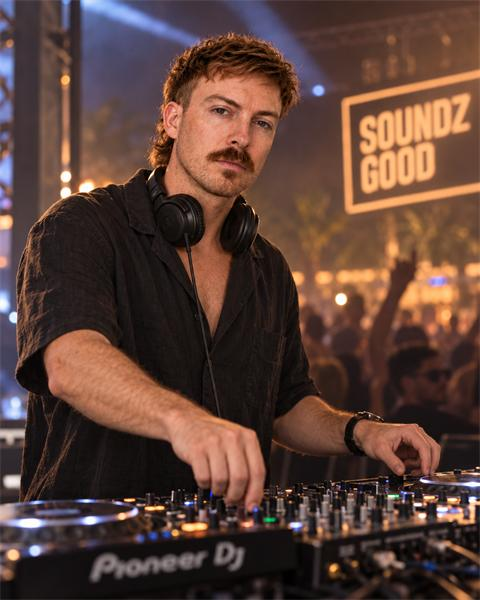
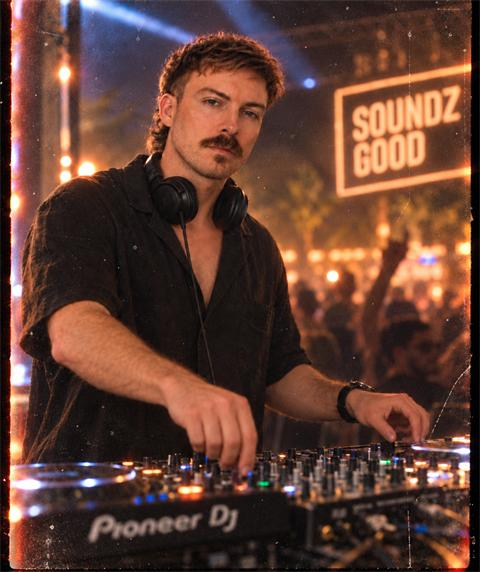
The photograph is the card, and six artists have one
THE CARD

The picture used to sit in a strip across the top with the name and the
button in a solid panel underneath. Now it fills the whole card and the
words sit over it, on a gradient that fades up out of the picture. That is
what makes the card about the artist rather than about the box the artist
is in.

The photograph is also the hit area: clicking anywhere on it opens the
artist panel, as a real <button> with a label and a focus ring. The
enquiry link sits above it in the stacking order so it stays clickable -
checked with elementsFromPoint, which reads link, body, picture, card.

SIX PHOTOGRAPHS

DJ Maxx, DJ Karma, Nina Sinclair, DJ Charley Templar, Alex Emrik and DJ
PowerBoi. Roughly 2MB each on the way in, 29-45KB on the way out - 98% off,
and none of it fetched until somebody scrolls to it.

I nearly shipped Nina's photograph on DJ PowerBoi's card. Two arrived
close together and I took the newest file for the name most recently
mentioned rather than checking which picture was which. Opening both
sorted it. Worth naming, because the failure is silent: a wrong face on a
real person's card looks exactly like a right one.

Nina Sinclare is now Nina Sinclair. The original list said Sinclare; it
has been written Sinclair twice since, and Sinclair is the spelling that
matches the name.

diff --git a/entertainment.css b/entertainment.css
@@ -629,10 +629,32 @@
     gap:18px;
 }
 
+/*  THE PHOTOGRAPH IS THE CARD
+
+    It used to sit in a strip across the top with the name and the button in
+    a solid panel underneath. Now it fills the whole thing and the words sit
+    over it, which is what makes the card about the artist rather than about
+    the box the artist is in.
+
+    THE CROP
+    These are portraits and this is a tall box, but still a crop - centred,
+    DJ Maxx's card showed his chest and the decks with his face cut off
+    above the frame. 18% from the top is where a head is in a portrait. Set
+    once here, because it is true of every photograph of a person standing
+    up.                                                                   */
 #sg-ent-page .ent-card{
+    position:relative;
     display:flex;
     flex-direction:column;
-    background:var(--ent-card);
+    justify-content:flex-end;
+    min-height:310px;
+
+    background:
+        var(--ent-img, none),
+        linear-gradient(140deg, #2b1a3d, #0d0d0d 72%);
+    background-size:cover;
+    background-position:center 18%;
+
     border:1px solid var(--ent-line);
     border-radius:14px;
     overflow:hidden;
@@ -644,37 +666,28 @@
     transform:translateY(-3px);
 }
 
-/*  THE CROP
+/*  Covers the whole card, under the words, so clicking anywhere on the
+    photograph opens the artist panel. It carries no picture of its own any
+    more - it is a hit area, and the holder of the stand-in glyph.
 
-    Artist photographs are portraits, and this box is landscape - so most of
-    the picture is cropped away. Centred, it kept the middle: DJ Maxx's card
-    showed his chest and the decks, with his face cut off above the frame.
-
-    18% from the top instead, which is where a head is in a portrait. Set
-    once here rather than per artist, because it is true of every photograph
-    of a person standing up.                                              */
+    The padding pushes the glyph up out of the area the words cover, so it
+    is centred in the part of the card you can actually see.             */
 #sg-ent-page .ent-card-media{
-    position:relative;
-    height:170px;
+    position:absolute;
+    inset:0;
+    z-index:1;
+
     display:grid;
     place-items:center;
+    padding-bottom:96px;
 
-    /*  It is a <button> now - the picture opens the artist panel, since the
-        action underneath it goes off to the contact form instead. Stripped
-        back to looking like the picture it was.                         */
     width:100%;
-    padding:0;
+    background:none;
     border:0;
     cursor:pointer;
     font:inherit;
     color:inherit;
     text-align:inherit;
-
-    background:
-        var(--ent-img, none),
-        linear-gradient(140deg, #2b1a3d, #0d0d0d 72%);
-    background-size:cover;
-    background-position:center 18%;
 }
 
 /*  The glyph is the stand-in for a photo that is not there yet. Once one
@@ -697,10 +710,8 @@
     blurs what shows through where the browser supports it; where it does
     not, the wash on its own is enough.                                   */
 #sg-ent-page .ent-badge{
-    position:absolute;
-    left:10px;
-    bottom:10px;
-
+    align-self:flex-start;
+    margin-bottom:10px;
     padding:5px 10px;
     border-radius:6px;
     background:rgba(10,10,10,.45);
@@ -716,11 +727,26 @@
     text-transform:uppercase;
 }
 
+/*  Over the photograph rather than under it. The gradient fades up out of
+    the picture so the words have something solid behind them without the
+    card turning back into a panel with a lid on it.
+
+    Above the hit area in the stacking order, so the enquiry link is
+    clickable - the picture button covers the whole card underneath.     */
 #sg-ent-page .ent-card-body{
+    position:relative;
+    z-index:2;
+
     display:flex;
     flex-direction:column;
-    flex:1;
-    padding:16px;
+    padding:64px 16px 16px;
+
+    background:linear-gradient(
+        to top,
+        rgba(8,8,8,.95) 28%,
+        rgba(8,8,8,.78) 58%,
+        rgba(8,8,8,0) 100%
+    );
 }
 
 #sg-ent-page .ent-card-body h3{
@@ -836,7 +862,8 @@
         gap:12px;
     }
 
-    #sg-ent-page .ent-card-media{ height:130px; }
+    #sg-ent-page .ent-card{ min-height:250px; }
+    #sg-ent-page .ent-card-media{ padding-bottom:80px; }
 
     #sg-ent-page .ent-select{ flex:1 1 140px; }
 

diff --git a/js/entertainment.js b/js/entertainment.js
@@ -65,12 +65,17 @@
         { slug:'dj-maxx',            name:'DJ Maxx',            act:'dj',   genres:[], events:[],
           photo:'images/talent/dj-maxx.jpg' },
         { slug:'dj-tao',             name:'DJ Tao',             act:'dj',   genres:[], events:[] },
-        { slug:'dj-karma',           name:'DJ Karma',           act:'dj',   genres:[], events:[] },
-        { slug:'nina-sinclare',      name:'Nina Sinclare',      act:'dj',   genres:[], events:[] },
-        { slug:'dj-charley-templar', name:'DJ Charley Templar', act:'dj',   genres:[], events:[] },
+        { slug:'dj-karma',           name:'DJ Karma',           act:'dj',   genres:[], events:[],
+          photo:'images/talent/dj-karma.jpg' },
+        { slug:'nina-sinclair',      name:'Nina Sinclair',      act:'dj',   genres:[], events:[],
+          photo:'images/talent/nina-sinclair.jpg' },
+        { slug:'dj-charley-templar', name:'DJ Charley Templar', act:'dj',   genres:[], events:[],
+          photo:'images/talent/dj-charley-templar.jpg' },
         { slug:'kriss-kross',        name:'Kriss Kross',        act:'dj',   genres:[], events:[] },
-        { slug:'alex-emrik',         name:'Alex Emrik',         act:'dj',   genres:[], events:[] },
-        { slug:'dj-powerboi',        name:'DJ PowerBoi',        act:'dj',   genres:[], events:[] },
+        { slug:'alex-emrik',         name:'Alex Emrik',         act:'dj',   genres:[], events:[],
+          photo:'images/talent/alex-emrik.jpg' },
+        { slug:'dj-powerboi',        name:'DJ PowerBoi',        act:'dj',   genres:[], events:[],
+          photo:'images/talent/dj-powerboi.jpg' },
 
         /* ---- Solo artists ---- */
         { slug:'sam-mckann',         name:'Sam McKann',         act:'solo', genres:[], events:[] },
@@ -167,14 +172,21 @@
             : '';
 
         return '' +
-        '<article class="ent-card" data-act="' + esc(t.act) + '">' +
+        '<article class="ent-card" data-act="' + esc(t.act) + '"' + media + '>' +
+
+          /*  The picture fills the card and this sits over all of it, so
+              clicking anywhere on the photograph opens the artist panel.
+              It holds the glyph shown when there is no photograph.      */
           '<button type="button" class="ent-card-media" data-slug="' + esc(t.slug) + '"' +
-            media + ' aria-label="More about ' + esc(t.name) + '">' +
+            ' aria-label="More about ' + esc(t.name) + '">' +
             '<svg class="ent-card-glyph" viewBox="0 0 24 24" aria-hidden="true">' + glyph + '</svg>' +
-            '<span class="ent-badge">' + esc(actLabel) + '</span>' +
           '</button>' +
 
+          /*  The words sit on the photograph rather than in a solid strip
+              underneath it, over a gradient that fades up out of the
+              picture.                                                   */
           '<div class="ent-card-body">' +
+            '<span class="ent-badge">' + esc(actLabel) + '</span>' +
             '<h3>' + esc(t.name) + '</h3>' +
 
             /*  Both lines are left out entirely when there is nothing to put

diff --git a/vendor-signup.html b/vendor-signup.html
@@ -20,10 +20,10 @@
     <meta name="twitter:card" content="summary_large_image">
 
     <link rel="icon" href="images/logo.png">
-    <link rel="stylesheet" href="style.css?v=10">
-    <link rel="stylesheet" href="vendor-signup.css?v=10">
-    <script src="js/main.js?v=10" defer></script>
-    <script type="module" src="js/vendor-signup.js?v=10"></script>
+    <link rel="stylesheet" href="style.css?v=11">
+    <link rel="stylesheet" href="vendor-signup.css?v=11">
+    <script src="js/main.js?v=11" defer></script>
+    <script type="module" src="js/vendor-signup.js?v=11"></script>
 </head>
 
 <body class="vendor-signup">

diff --git a/events.html b/events.html
@@ -20,10 +20,10 @@
   <meta name="twitter:card" content="summary_large_image">
 
   <link rel="icon" href="images/logo.png">
-  <link rel="stylesheet" href="style.css?v=10">
-  <link rel="stylesheet" href="events.css?v=10">
-  <script src="js/main.js?v=10" defer></script>
-  <script src="js/events.js?v=10" defer></script>
+  <link rel="stylesheet" href="style.css?v=11">
+  <link rel="stylesheet" href="events.css?v=11">
+  <script src="js/main.js?v=11" defer></script>
+  <script src="js/events.js?v=11" defer></script>
 </head>
 
 <!-- the class is what events.css hangs the footer tweak off -->

diff --git a/entertainment.html b/entertainment.html
@@ -20,10 +20,10 @@
   <meta name="twitter:card" content="summary_large_image">
 
   <link rel="icon" href="images/logo.png">
-  <link rel="stylesheet" href="style.css?v=10">
-  <link rel="stylesheet" href="entertainment.css?v=10">
-  <script src="js/main.js?v=10" defer></script>
-  <script src="js/entertainment.js?v=10" defer></script>
+  <link rel="stylesheet" href="style.css?v=11">
+  <link rel="stylesheet" href="entertainment.css?v=11">
+  <script src="js/main.js?v=11" defer></script>
+  <script src="js/entertainment.js?v=11" defer></script>
 </head>
 
 <body>

diff --git a/services.html b/services.html
@@ -20,10 +20,10 @@
   <meta name="twitter:card" content="summary_large_image">
 
   <link rel="icon" href="images/logo.png">
-  <link rel="stylesheet" href="style.css?v=10">
-  <link rel="stylesheet" href="services.css?v=10">
-  <script src="js/main.js?v=10" defer></script>
-  <script src="js/services.js?v=10" defer></script>
+  <link rel="stylesheet" href="style.css?v=11">
+  <link rel="stylesheet" href="services.css?v=11">
+  <script src="js/main.js?v=11" defer></script>
+  <script src="js/services.js?v=11" defer></script>
 </head>
 
 <body>

diff --git a/admin.html b/admin.html
@@ -16,8 +16,8 @@
       and the two would fight each other. Keeping them apart also means
       nothing done in here can reach the public site, and nothing done
       there can reach this.                                             -->
-<link rel="stylesheet" href="admin.css?v=10">
-<script type="module" src="js/admin-app.js?v=10"></script>
+<link rel="stylesheet" href="admin.css?v=11">
+<script type="module" src="js/admin-app.js?v=11"></script>
 </head>
 
 <body>

diff --git a/js/vendor-signup.js b/js/vendor-signup.js
@@ -20,9 +20,9 @@ import {
   functionsRegion,
   eventId,
   isFirebaseConfigured,
-} from './firebase-config.js?v=10';
+} from './firebase-config.js?v=11';
 
-import { VendorMap, previewLayout, previewCategories } from './vendor-map.js?v=10';
+import { VendorMap, previewLayout, previewCategories } from './vendor-map.js?v=11';
 
 const SDK = 'https://www.gstatic.com/firebasejs/10.14.1';
 

diff --git a/index.html b/index.html
@@ -20,8 +20,8 @@
     <meta name="twitter:card" content="summary_large_image">
 
     <link rel="icon" href="images/logo.png">
-    <link rel="stylesheet" href="style.css?v=10">
-    <script src="js/main.js?v=10" defer></script>
+    <link rel="stylesheet" href="style.css?v=11">
+    <script src="js/main.js?v=11" defer></script>
 </head>
 
 <body class="home">

diff --git a/contact.html b/contact.html
@@ -20,8 +20,8 @@
     <meta name="twitter:card" content="summary_large_image">
 
     <link rel="icon" href="images/logo.png">
-    <link rel="stylesheet" href="style.css?v=10">
-    <script src="js/main.js?v=10" defer></script>
+    <link rel="stylesheet" href="style.css?v=11">
+    <script src="js/main.js?v=11" defer></script>
 </head>
 
 <body>

diff --git a/soundzgoodadminlogin.html b/soundzgoodadminlogin.html
@@ -25,7 +25,7 @@
 <link rel="canonical" href="https://www.soundzgood.com.au/admin">
 
 <link rel="icon" href="images/logo.png">
-<link rel="stylesheet" href="admin.css?v=10">
+<link rel="stylesheet" href="admin.css?v=11">
 
 <script>
   location.replace('/admin' + location.hash);

diff --git a/js/admin-app.js b/js/admin-app.js
@@ -33,7 +33,7 @@ import {
   functionsRegion,
   eventId as defaultEventId,
   isFirebaseConfigured,
-} from './firebase-config.js?v=10';
+} from './firebase-config.js?v=11';
 
 const SDK = 'https://www.gstatic.com/firebasejs/10.14.1';
 
